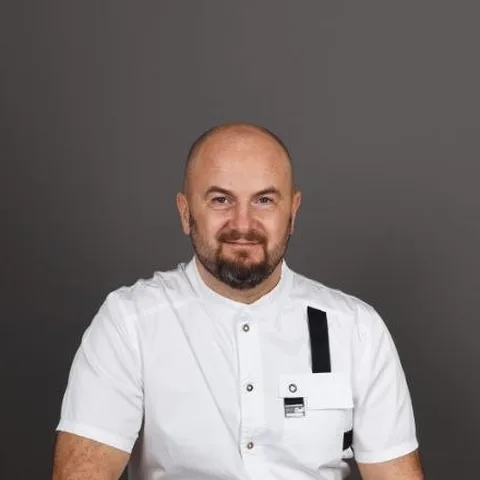
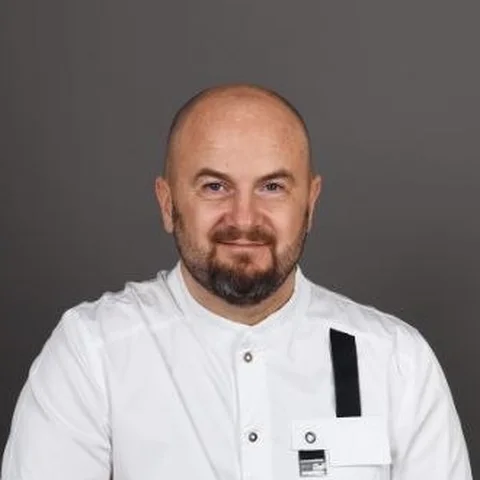
Гурьянов: фото в карточке крупнее

Changed region(s): [[0.0, 0.1562, 1.0, 1.0], [0.5, 0.875, 0.5625, 0.9375]]

diff --git a/fs.js b/fs.js
@@ -9,7 +9,7 @@
   'use strict';
 
   // Меняется при каждом обновлении данных: по нему сбрасывается кэш JSON и MD
-  var VERSION = '2026.10.25-5';
+  var VERSION = '2026.10.25-6';
 
   if (window.FestSun) { window.FestSun.scan(); return; }
 
